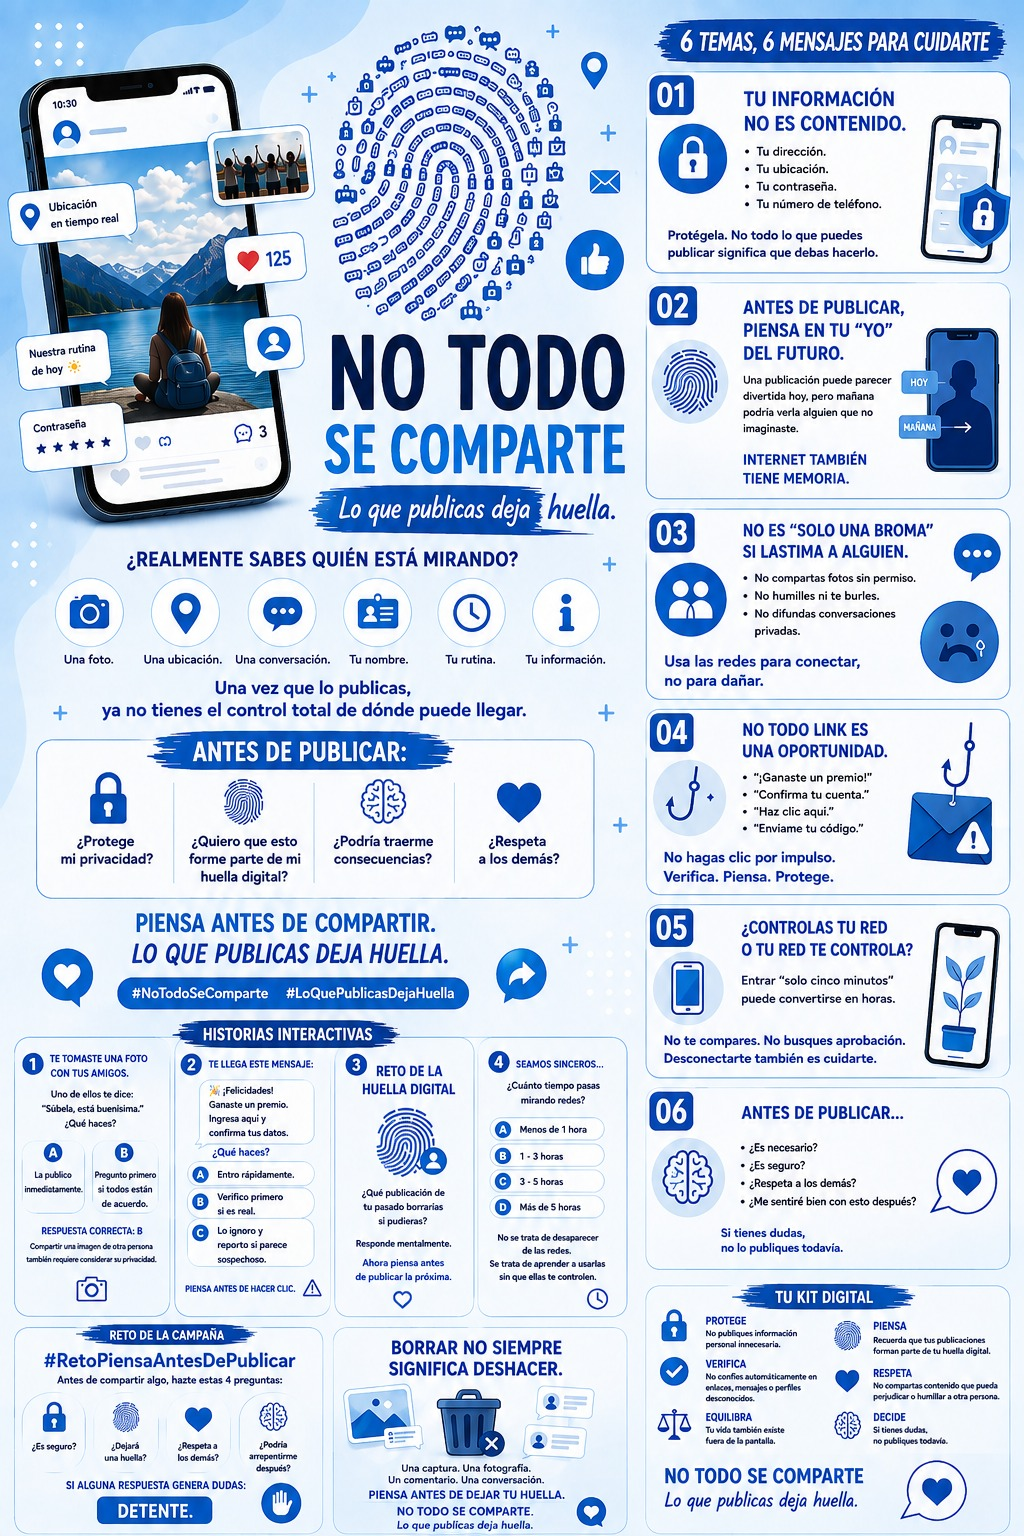
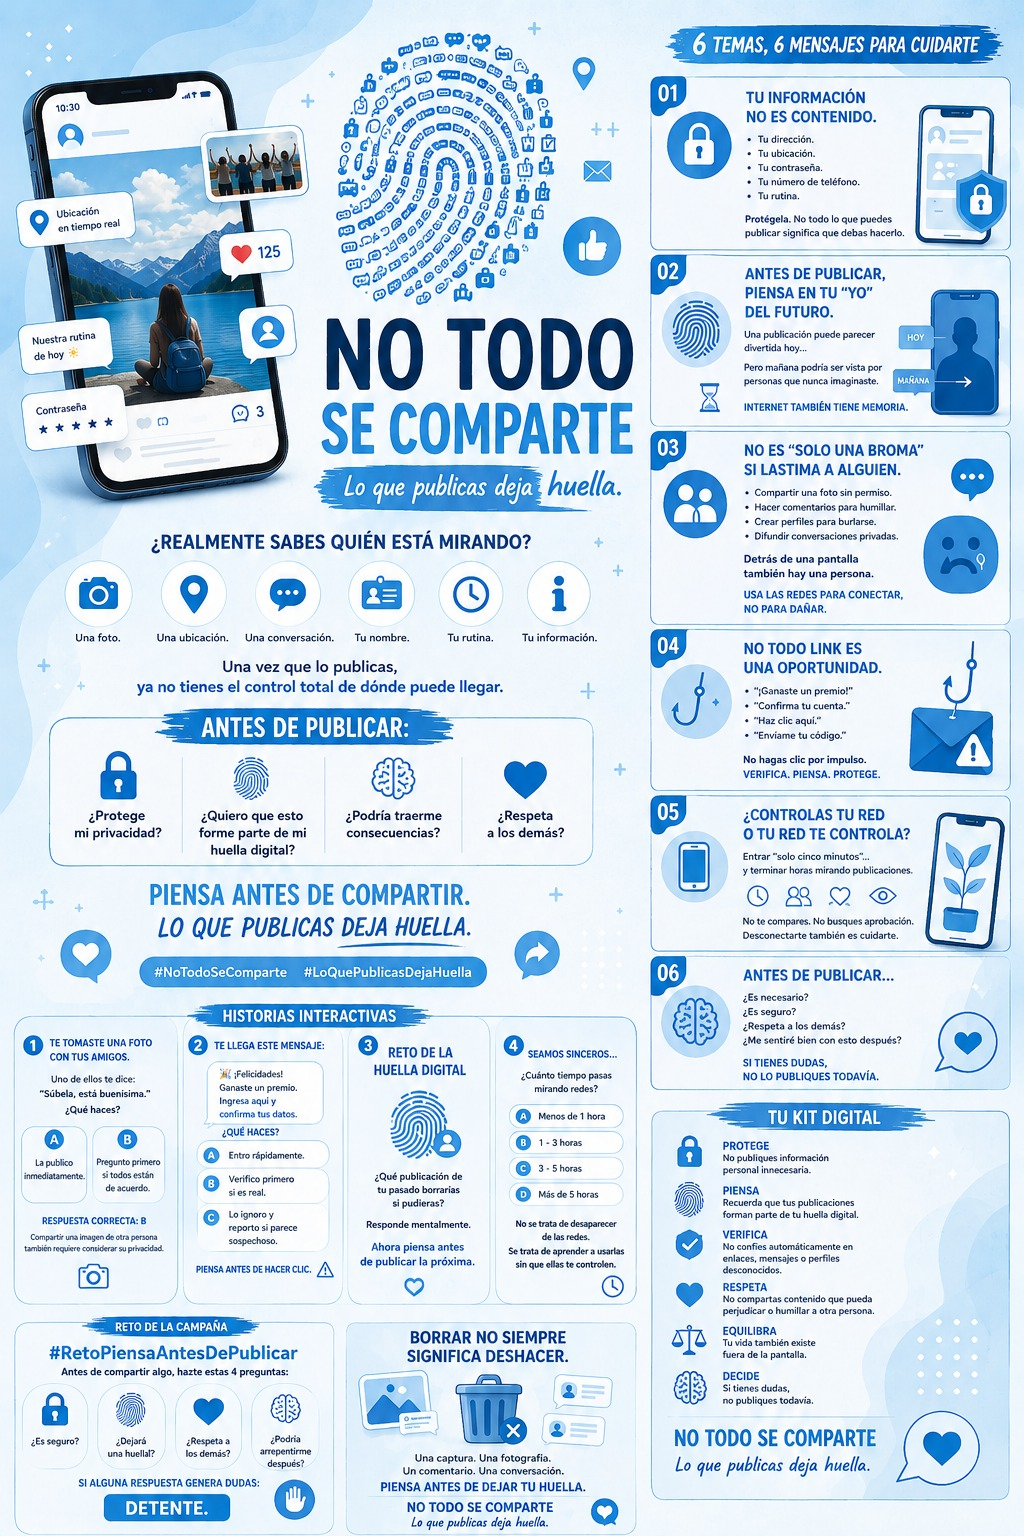
video final

diff --git a/js/datos.js b/js/datos.js
@@ -1,6 +1,10 @@
 /* ============================================
    DATOS — constantes y contenido de los módulos
-   Preguntas de ejemplo: reemplázalas por las reales.
+   Preguntas: tomadas del documento entregado
+   (preguntas_por_modulos.docx), asignadas en el
+   mismo orden a nuestros 6 módulos — el nombre que
+   cada tema tenía en ese documento no se usó para
+   nada, solo el contenido de las preguntas.
    Los videos son de YouTube (no listados) — cada
    módulo trae su youtubeId (o null si aún no tiene
    video, en cuyo caso se usa el botón manual de
@@ -21,67 +25,80 @@ const MODULOS = [
     id: "modulo1", titulo: "Huella digital", duracion: "3:47 min", nivel: "Fácil", youtubeId: "Fh6I3xxwWIw",
     resumen: "Qué es la huella digital, por qué no se borra fácilmente y cómo tus publicaciones de hoy pueden encontrarte en el futuro.",
     preguntas: [
-      { pregunta: "¿Qué es la huella digital?", opciones: ["El rastro que dejas al usar internet", "Un tipo de virus informático", "La huella dactilar escaneada"], correcta: 0 },
-      { pregunta: "¿Una publicación borrada desaparece por completo de internet?", opciones: ["Sí, siempre", "No necesariamente, puede haber sido guardada o compartida", "Solo si tiene pocas visitas"], correcta: 1 },
-      { pregunta: "¿Quién puede ver tu huella digital?", opciones: ["Solo tú", "Solo tus amigos", "Potencialmente cualquier persona, incluso en el futuro"], correcta: 2 },
+      { pregunta: "¿Qué debemos hacer para proteger nuestros datos personales en internet?", opciones: ["Compartirlos con cualquier persona.", "Mantenerlos seguros y compartirlos solo cuando sea necesario.", "Publicarlos en redes sociales.", "Enviarlos a personas desconocidas."], correcta: 1 },
+      { pregunta: "¿Cuál de los siguientes es un dato personal que debemos proteger?", opciones: ["Nuestra contraseña.", "Nuestro color favorito.", "Nuestro deporte favorito.", "Nuestra película favorita."], correcta: 0 },
+      { pregunta: "¿Es recomendable compartir nuestra contraseña con otras personas?", opciones: ["Verdadero", "Falso"], correcta: 1 },
+      { pregunta: "¿Cuál es una buena forma de proteger nuestras cuentas?", opciones: ["Utilizar contraseñas seguras.", "Usar la misma contraseña para todo.", "Compartir la contraseña con amigos.", "Escribir la contraseña en publicaciones."], correcta: 0 },
+      { pregunta: "¿Por qué es importante proteger nuestros datos personales?", opciones: ["Para evitar posibles riesgos y proteger nuestra privacidad.", "Para conseguir más seguidores.", "Para publicar más información.", "Para aceptar todas las solicitudes de amistad."], correcta: 0 },
     ],
   },
   {
     id: "modulo2", titulo: "Privacidad", duracion: "3:14 min", nivel: "Fácil", youtubeId: "ZZkCN3qWBas",
     resumen: "Cómo configurar la privacidad de tus cuentas y decidir con criterio qué compartir y con quién.",
     preguntas: [
-      { pregunta: "¿Qué es una cuenta 'pública' en redes sociales?", opciones: ["Solo la ven tus contactos", "La puede ver cualquier persona", "Solo la ve tu familia"], correcta: 1 },
-      { pregunta: "Antes de publicar tu ubicación, es buena idea...", opciones: ["Hacerlo siempre en tiempo real", "Pensar si es necesario compartirla", "No importa, nadie la ve"], correcta: 1 },
-      { pregunta: "¿Qué dato es más sensible compartir públicamente?", opciones: ["Tu color favorito", "Tu dirección de casa", "Tu serie favorita"], correcta: 1 },
+      { pregunta: "¿Qué es la privacidad de los datos?", opciones: ["La protección y control de nuestra información personal.", "Compartir todos nuestros datos.", "Publicar información de otras personas.", "Eliminar nuestras redes sociales."], correcta: 0 },
+      { pregunta: "¿Cuál de estos datos debemos proteger especialmente?", opciones: ["Nuestra contraseña.", "Nuestro color favorito.", "Nuestra comida favorita.", "Nuestro deporte preferido."], correcta: 0 },
+      { pregunta: "Es importante revisar la configuración de privacidad de nuestras redes sociales.", opciones: ["Verdadero", "Falso"], correcta: 0 },
+      { pregunta: "¿Qué puede ocurrir si dejamos nuestros datos personales públicos?", opciones: ["Siempre estaremos más seguros.", "Cualquier persona podría acceder a ellos.", "Nuestra información desaparecerá.", "Nadie podrá verla."], correcta: 1 },
+      { pregunta: "¿Qué debemos hacer si una aplicación solicita información personal?", opciones: ["Dar toda la información sin revisar.", "Revisar qué información solicita y para qué la necesita.", "Compartir también nuestras contraseñas.", "Ignorar siempre la solicitud."], correcta: 1 },
     ],
   },
   {
     id: "modulo3", titulo: "Ciberacoso", duracion: "4:05 min", nivel: "Medio", youtubeId: "0X9JtHGOUYY",
     resumen: "Cómo identificar el ciberacoso, qué hacer si te ocurre a ti o a alguien cercano, y dónde pedir ayuda.",
     preguntas: [
-      { pregunta: "¿Qué es el ciberacoso?", opciones: ["Un juego en línea", "Hostigar o intimidar a alguien por medios digitales", "Un tipo de publicidad"], correcta: 1 },
-      { pregunta: "Si alguien te acosa por redes sociales, deberías...", opciones: ["Responder con más agresividad", "Guardar evidencia y contarle a un adulto de confianza", "Ignorarlo y no decir nada a nadie"], correcta: 1 },
-      { pregunta: "¿Es válido pedir ayuda si ves a alguien siendo acosado en línea?", opciones: ["No, no es asunto tuyo", "Sí, siempre es válido", "Solo si es tu mejor amigo"], correcta: 1 },
+      { pregunta: "¿Qué significa que una publicación tenga un gran alcance?", opciones: ["Que puede llegar a muchas personas.", "Que solamente la ve quien la publica.", "Que se elimina rápidamente.", "Que nadie puede compartirla."], correcta: 0 },
+      { pregunta: "¿Qué puede pasar con una foto publicada en internet?", opciones: ["Puede ser compartida por otras personas.", "Solo puede verla el dueño.", "Desaparece automáticamente.", "Nunca puede descargarse."], correcta: 0 },
+      { pregunta: "Lo que publicamos en internet puede llegar a personas que no conocemos.", opciones: ["Verdadero", "Falso"], correcta: 0 },
+      { pregunta: "Antes de compartir una publicación debemos preguntarnos:", opciones: ["¿Cuántos \"me gusta\" tendrá?", "¿Podría afectar mi privacidad o la de otra persona?", "¿Será la publicación más famosa?", "¿Todos mis amigos la compartirán?"], correcta: 1 },
+      { pregunta: "¿Cuál es una forma responsable de compartir contenido?", opciones: ["Publicar sin pensar.", "Compartir información privada de otras personas.", "Pensar antes de publicar y respetar la privacidad.", "Compartir cualquier contenido que recibamos."], correcta: 2 },
     ],
   },
   {
     id: "modulo4", titulo: "Desinformación", duracion: "3:58 min", nivel: "Medio", youtubeId: "axStca1xfuo",
     resumen: "Cómo reconocer noticias falsas y verificar información antes de compartirla.",
     preguntas: [
-      { pregunta: "Antes de compartir una noticia impactante, deberías...", opciones: ["Compartirla de inmediato", "Verificar la fuente primero", "Solo mirar el titular"], correcta: 1 },
-      { pregunta: "¿Qué es una señal de posible noticia falsa?", opciones: ["Viene de un medio reconocido", "Tiene fuentes citadas", "Título exagerado sin fuente clara"], correcta: 2 },
-      { pregunta: "¿Compartir información falsa sin saberlo tiene consecuencias?", opciones: ["No, si no lo sabías no pasa nada", "Sí, igual puede generar daño o confusión", "Solo si lo compartes muchas veces"], correcta: 1 },
+      { pregunta: "¿Qué es el rastro digital?", opciones: ["La información que dejamos al utilizar internet.", "Una contraseña.", "Un programa de computadora.", "Un tipo de teléfono."], correcta: 0 },
+      { pregunta: "¿Cuál puede formar parte de nuestro rastro digital?", opciones: ["Publicaciones y comentarios en redes sociales.", "Únicamente nuestras fotografías impresas.", "La ropa que utilizamos.", "Los objetos de nuestra casa."], correcta: 0 },
+      { pregunta: "Las actividades que realizamos en internet pueden dejar información sobre nosotros.", opciones: ["Verdadero", "Falso"], correcta: 0 },
+      { pregunta: "¿Por qué debemos cuidar nuestro rastro digital?", opciones: ["Porque puede afectar nuestra privacidad y nuestra imagen.", "Porque internet deja de funcionar.", "Porque elimina nuestras cuentas.", "Porque aumenta automáticamente nuestras contraseñas."], correcta: 0 },
+      { pregunta: "¿Cuál es una buena forma de cuidar nuestro rastro digital?", opciones: ["Publicar información constantemente.", "Revisar lo que publicamos y compartimos.", "Compartir datos con desconocidos.", "Utilizar la misma contraseña para todo."], correcta: 1 },
     ],
   },
   {
     id: "modulo5", titulo: "Bienestar digital", duracion: "8:10 min", nivel: "Fácil", youtubeId: "HwqC5VqcbcA",
     resumen: "Cómo equilibrar el tiempo en pantalla y reconocer cuándo las redes sociales afectan tu ánimo.",
     preguntas: [
-      { pregunta: "¿Qué es el bienestar digital?", opciones: ["Tener el celular más caro", "Una relación sana con la tecnología", "Usar internet todo el día"], correcta: 1 },
-      { pregunta: "Una señal de que necesitas una pausa de redes sociales es...", opciones: ["Sentirte con más energía", "Sentirte ansioso o comparándote todo el tiempo", "Dormir mejor"], correcta: 1 },
-      { pregunta: "¿Establecer límites de tiempo en pantalla es útil?", opciones: ["Sí, puede ayudar a equilibrar tu rutina", "No, no sirve de nada", "Solo para adultos"], correcta: 0 },
+      { pregunta: "¿Cuál es una oportunidad que ofrece el mundo digital?", opciones: ["Acceder a información y aprender.", "Perder toda nuestra información.", "Evitar cualquier comunicación.", "No poder estudiar."], correcta: 0 },
+      { pregunta: "¿Cuál de los siguientes es un riesgo en línea?", opciones: ["Aprender nuevas cosas.", "Comunicarnos con otras personas.", "Estafas y perfiles falsos.", "Acceder a cursos educativos."], correcta: 2 },
+      { pregunta: "Internet puede ofrecer oportunidades, pero también presenta riesgos.", opciones: ["Verdadero", "Falso"], correcta: 0 },
+      { pregunta: "¿Qué debemos hacer ante un posible mensaje de estafa?", opciones: ["Responder inmediatamente.", "Compartir nuestros datos.", "Verificar la información antes de actuar.", "Enviar dinero."], correcta: 2 },
+      { pregunta: "¿Cuál es una forma de aprovechar responsablemente el mundo digital?", opciones: ["Utilizar internet de manera segura y responsable.", "Compartir información privada.", "Confiar en cualquier persona.", "Abrir todos los enlaces recibidos."], correcta: 0 },
     ],
   },
   {
-    id: "modulo6", titulo: "Uso responsable", duracion: "8 min", nivel: "Medio", youtubeId: null,
+    id: "modulo6", titulo: "Uso responsable", duracion: "8:48 min", nivel: "Medio", youtubeId: "WccCZVjofEo",
     resumen: "Buenas prácticas para publicar, comentar e interactuar de forma responsable en redes sociales.",
     preguntas: [
-      { pregunta: "Antes de comentar algo fuerte, es buena idea...", opciones: ["Publicarlo sin pensar", "Pensar cómo se sentiría la otra persona", "No importa lo que sientan otros"], correcta: 1 },
-      { pregunta: "¿Qué significa ser un buen ciudadano digital?", opciones: ["Tratar a otros con respeto también en línea", "Tener muchos seguidores", "Publicar todos los días"], correcta: 0 },
-      { pregunta: "Si ves contenido dañino o falso, lo más responsable es...", opciones: ["Compartirlo para que otros lo vean", "Reportarlo y no viralizarlo", "No hacer nada"], correcta: 1 },
+      { pregunta: "¿Qué significa conectarse con responsabilidad?", opciones: ["Utilizar internet de manera segura, respetuosa y consciente.", "Estar conectado todo el día.", "Compartir toda nuestra información.", "Aceptar a cualquier persona en redes sociales."], correcta: 0 },
+      { pregunta: "¿Cuál es una conducta responsable en internet?", opciones: ["Respetar a los demás.", "Compartir rumores.", "Publicar información privada de otras personas.", "Insultar a otros usuarios."], correcta: 0 },
+      { pregunta: "Debemos pensar antes de publicar o compartir contenido en internet.", opciones: ["Verdadero", "Falso"], correcta: 0 },
+      { pregunta: "¿Qué debemos hacer si recibimos un mensaje sospechoso?", opciones: ["Compartirlo con todos nuestros contactos.", "Abrir cualquier enlace que contenga.", "Verificarlo y evitar proporcionar información personal.", "Responder con nuestros datos."], correcta: 2 },
+      { pregunta: "¿Cuál es el principal objetivo de conectarnos responsablemente?", opciones: ["Tener más seguidores.", "Protegernos y utilizar la tecnología de forma segura y respetuosa.", "Publicar más contenido.", "Pasar más tiempo en redes sociales."], correcta: 1 },
     ],
   },
 ];
 
-/* Evaluación final — de prueba, combina los 6 temas. Reemplázala por la versión definitiva. */
+/* Evaluación final — una pregunta de cada uno de los 6 temas del
+   documento, sin importar el módulo al que quedó asignada arriba. */
 const EVALUACION_FINAL = {
   titulo: "Evaluación final",
   preguntas: [
-    { pregunta: "¿Por qué es importante cuidar tu huella digital?", opciones: ["Porque lo que publicas puede permanecer y encontrarte en el futuro", "Porque internet borra todo automáticamente a los 30 días", "No es realmente importante"], correcta: 0 },
-    { pregunta: "¿Qué deberías revisar antes de compartir tu ubicación?", opciones: ["Nada, siempre es seguro", "Si es realmente necesario compartirla", "Solo si tienes muchos seguidores"], correcta: 1 },
-    { pregunta: "Si presencias ciberacoso hacia otra persona, lo correcto es...", opciones: ["Ignorarlo", "Sumarte a los comentarios", "Reportarlo y buscar ayuda de un adulto de confianza"], correcta: 2 },
-    { pregunta: "Antes de compartir una noticia impactante, deberías...", opciones: ["Compartirla de inmediato para avisar a todos", "Verificar la fuente primero", "Solo mirar el titular"], correcta: 1 },
-    { pregunta: "Una señal de que necesitas una pausa de redes sociales es...", opciones: ["Sentirte ansioso o comparándote todo el tiempo", "Sentirte con más energía", "Dormir mejor que nunca"], correcta: 0 },
-    { pregunta: "Ser un buen ciudadano digital significa...", opciones: ["Tener muchos seguidores", "Tratar a otros con respeto también en línea", "Publicar todos los días sin excepción"], correcta: 1 },
+    { pregunta: "¿Por qué es importante proteger nuestros datos personales?", opciones: ["Para evitar posibles riesgos y proteger nuestra privacidad.", "Para conseguir más seguidores.", "Para publicar más información.", "Para aceptar todas las solicitudes de amistad."], correcta: 0 },
+    { pregunta: "¿Qué puede ocurrir si dejamos nuestros datos personales públicos?", opciones: ["Siempre estaremos más seguros.", "Cualquier persona podría acceder a ellos.", "Nuestra información desaparecerá.", "Nadie podrá verla."], correcta: 1 },
+    { pregunta: "Antes de compartir una publicación debemos preguntarnos:", opciones: ["¿Cuántos \"me gusta\" tendrá?", "¿Podría afectar mi privacidad o la de otra persona?", "¿Será la publicación más famosa?", "¿Todos mis amigos la compartirán?"], correcta: 1 },
+    { pregunta: "¿Por qué debemos cuidar nuestro rastro digital?", opciones: ["Porque puede afectar nuestra privacidad y nuestra imagen.", "Porque internet deja de funcionar.", "Porque elimina nuestras cuentas.", "Porque aumenta automáticamente nuestras contraseñas."], correcta: 0 },
+    { pregunta: "¿Cuál de los siguientes es un riesgo en línea?", opciones: ["Aprender nuevas cosas.", "Comunicarnos con otras personas.", "Estafas y perfiles falsos.", "Acceder a cursos educativos."], correcta: 2 },
+    { pregunta: "¿Cuál es el principal objetivo de conectarnos responsablemente?", opciones: ["Tener más seguidores.", "Protegernos y utilizar la tecnología de forma segura y respetuosa.", "Publicar más contenido.", "Pasar más tiempo en redes sociales."], correcta: 1 },
   ],
 };
